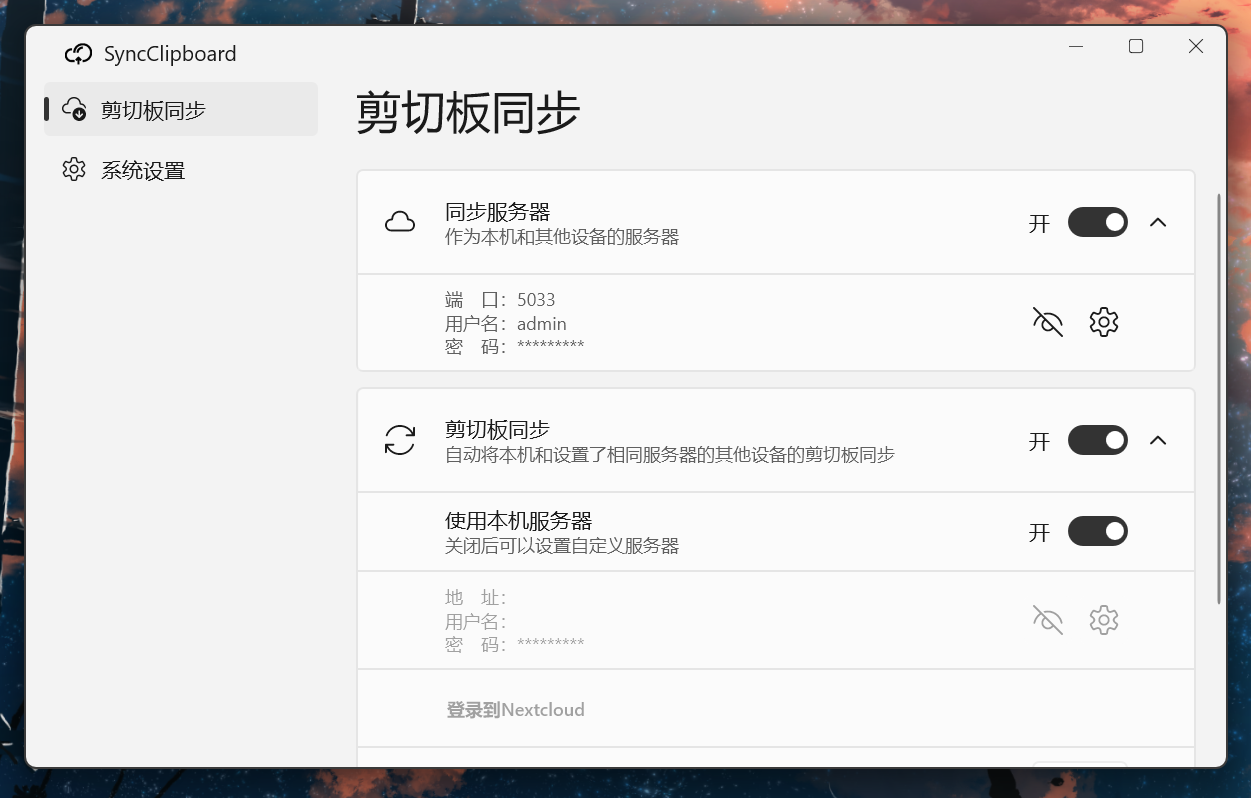
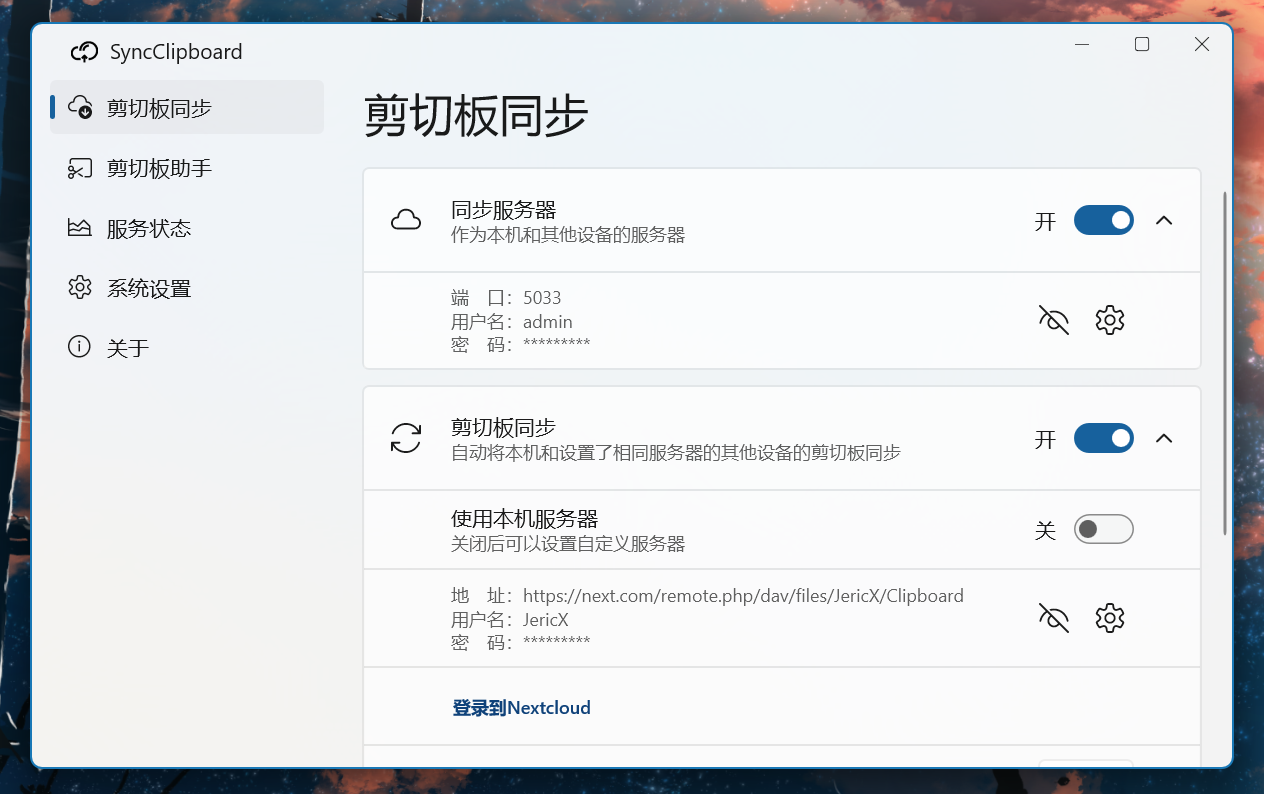
限制程序启动数量 更新截图 更新Action

diff --git a/SyncClipboard.WinUI3/App.xaml.cs b/SyncClipboard.WinUI3/App.xaml.cs
@@ -4,6 +4,7 @@ using SyncClipboard.Core;
 using SyncClipboard.Core.Interfaces;
 using System;
 using System.Diagnostics;
+using System.Threading;
 
 // To learn more about WinUI, the WinUI project structure,
 // and more about our project templates, see: http://aka.ms/winui-project-info.
@@ -49,17 +50,19 @@ namespace SyncClipboard.WinUI3
         /// Invoked when the application is launched.
         /// </summary>
         /// <param name="args">Details about the launch request and process.</param>
-        protected override void OnLaunched(Microsoft.UI.Xaml.LaunchActivatedEventArgs args)
+        protected override void OnLaunched(LaunchActivatedEventArgs args)
         {
-            Services = AppServices.ConfigureServices().BuildServiceProvider();
-            Logger = Services.GetRequiredService<ILogger>();
-            Logger?.Write("App started");
-            ProgramWorkflow = new ProgramWorkflow(Services);
-            ProgramWorkflow.Run();
-            MenuItem[] menuItems = {
-                new MenuItem("退出", ExitApp)
-            };
-            Services.GetService<IContextMenu>()?.AddMenuItemGroup(menuItems);
+            Mutex mutex = new(false, "SyncClipboard.WinUI3", out bool creetedNew);
+            if (creetedNew)
+            {
+                Services = AppServices.ConfigureServices().BuildServiceProvider();
+                Logger = Services.GetRequiredService<ILogger>();
+                Logger?.Write("App started");
+                ProgramWorkflow = new ProgramWorkflow(Services);
+                ProgramWorkflow.Run();
+                MenuItem[] menuItems = { new MenuItem("退出", ExitApp) };
+                Services.GetService<IContextMenu>()?.AddMenuItemGroup(menuItems);
+            }
         }
     }
 }
